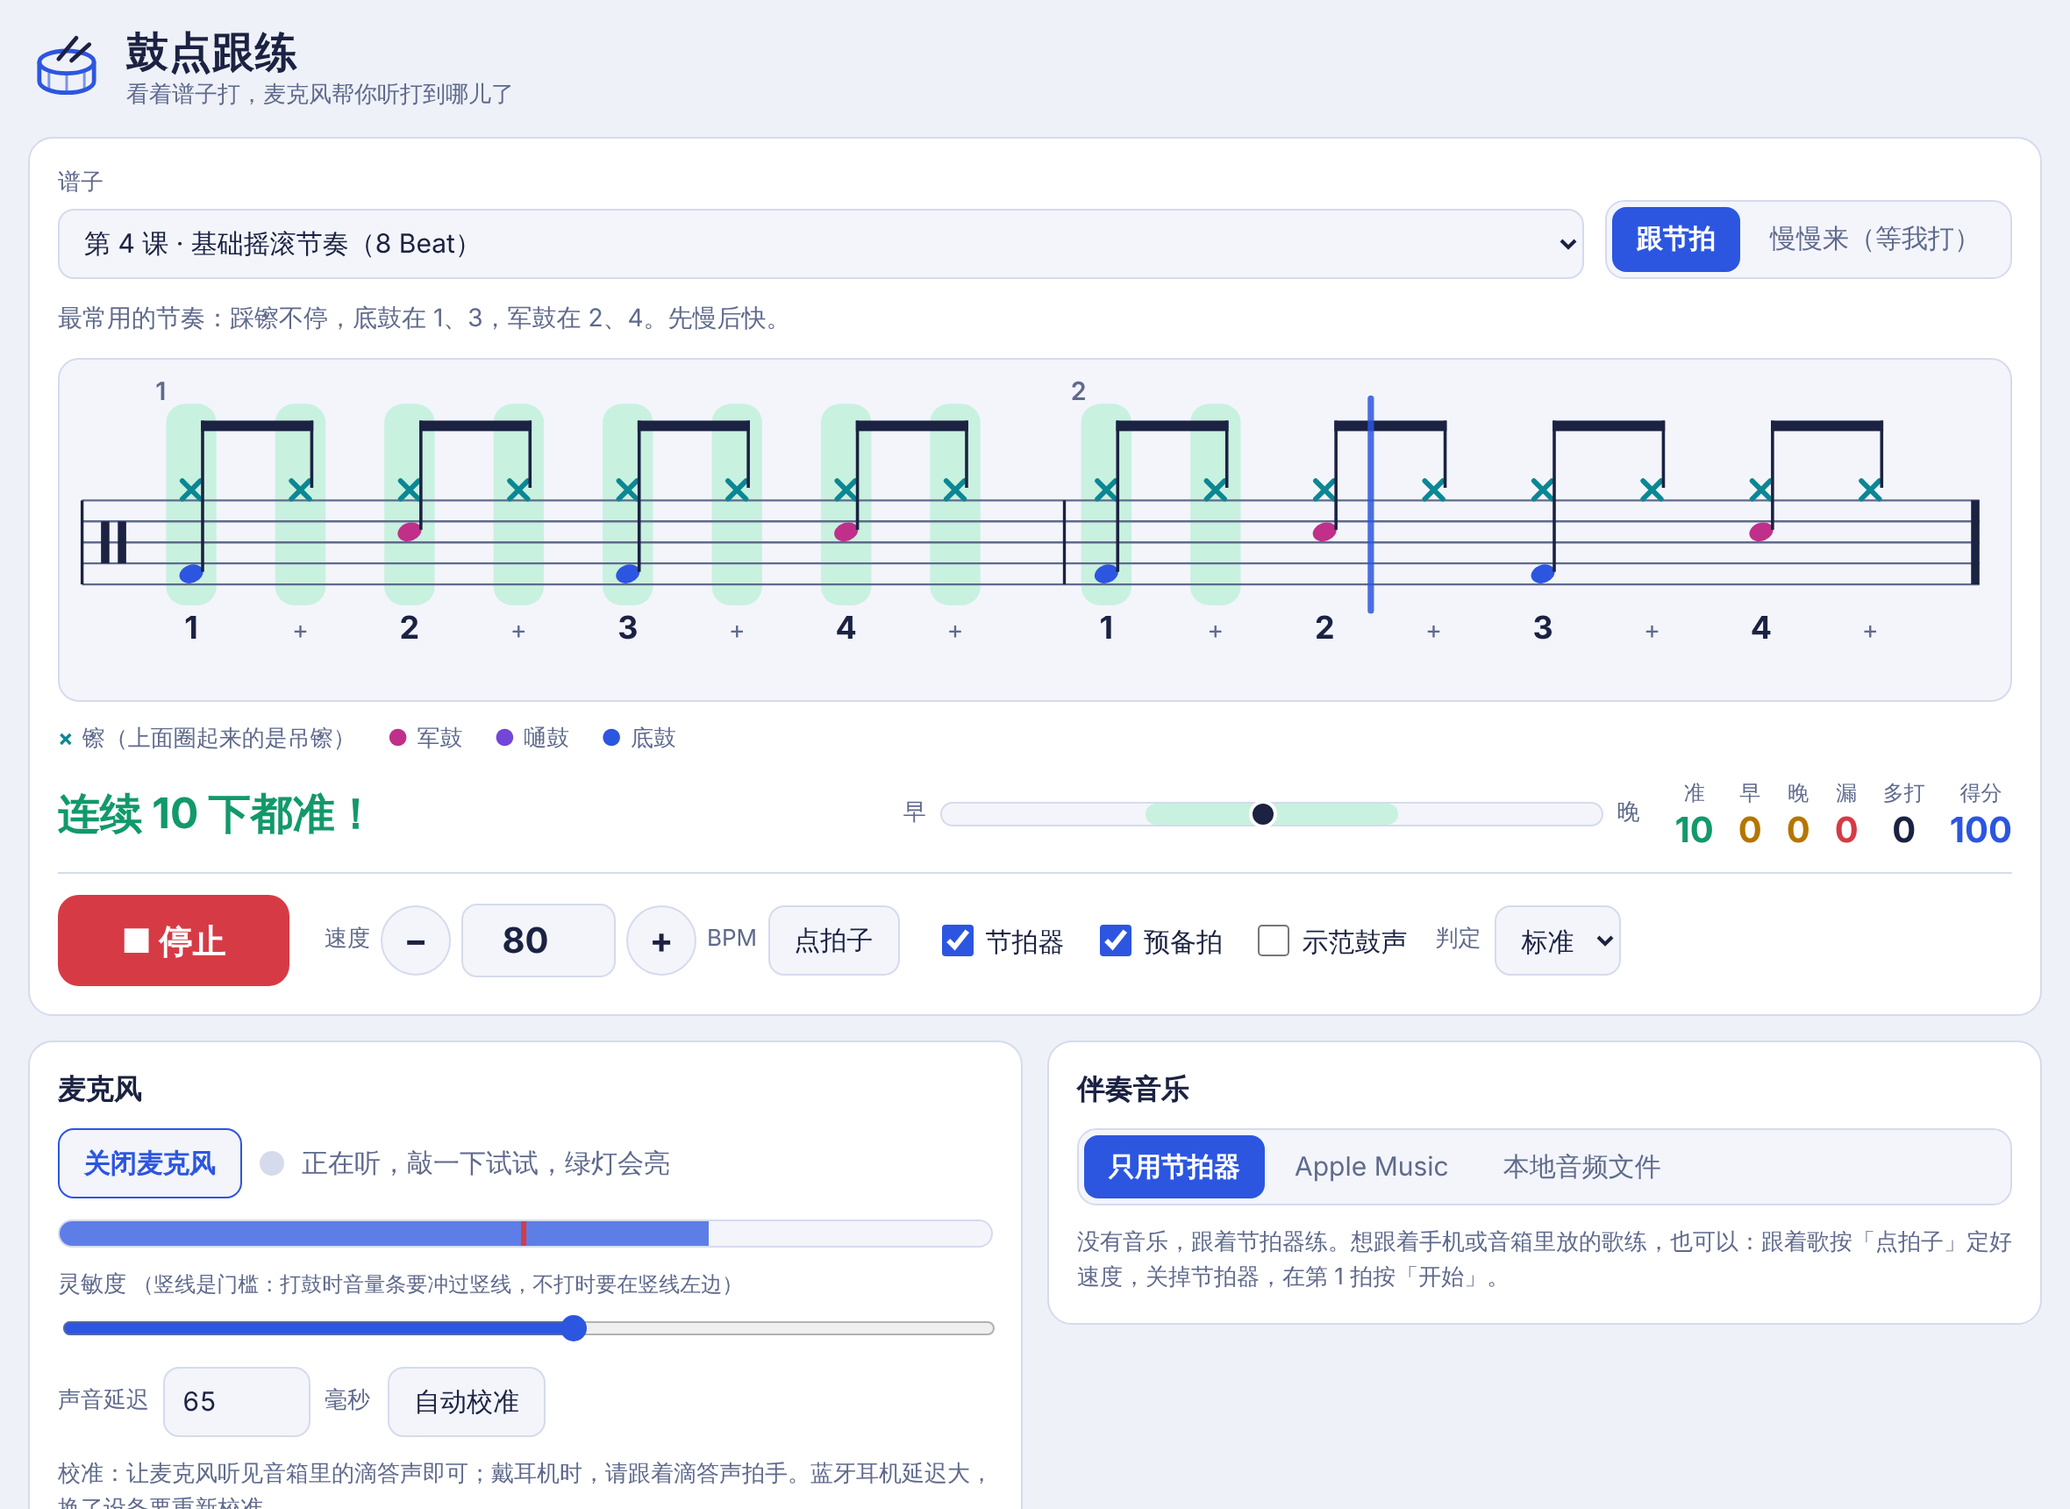
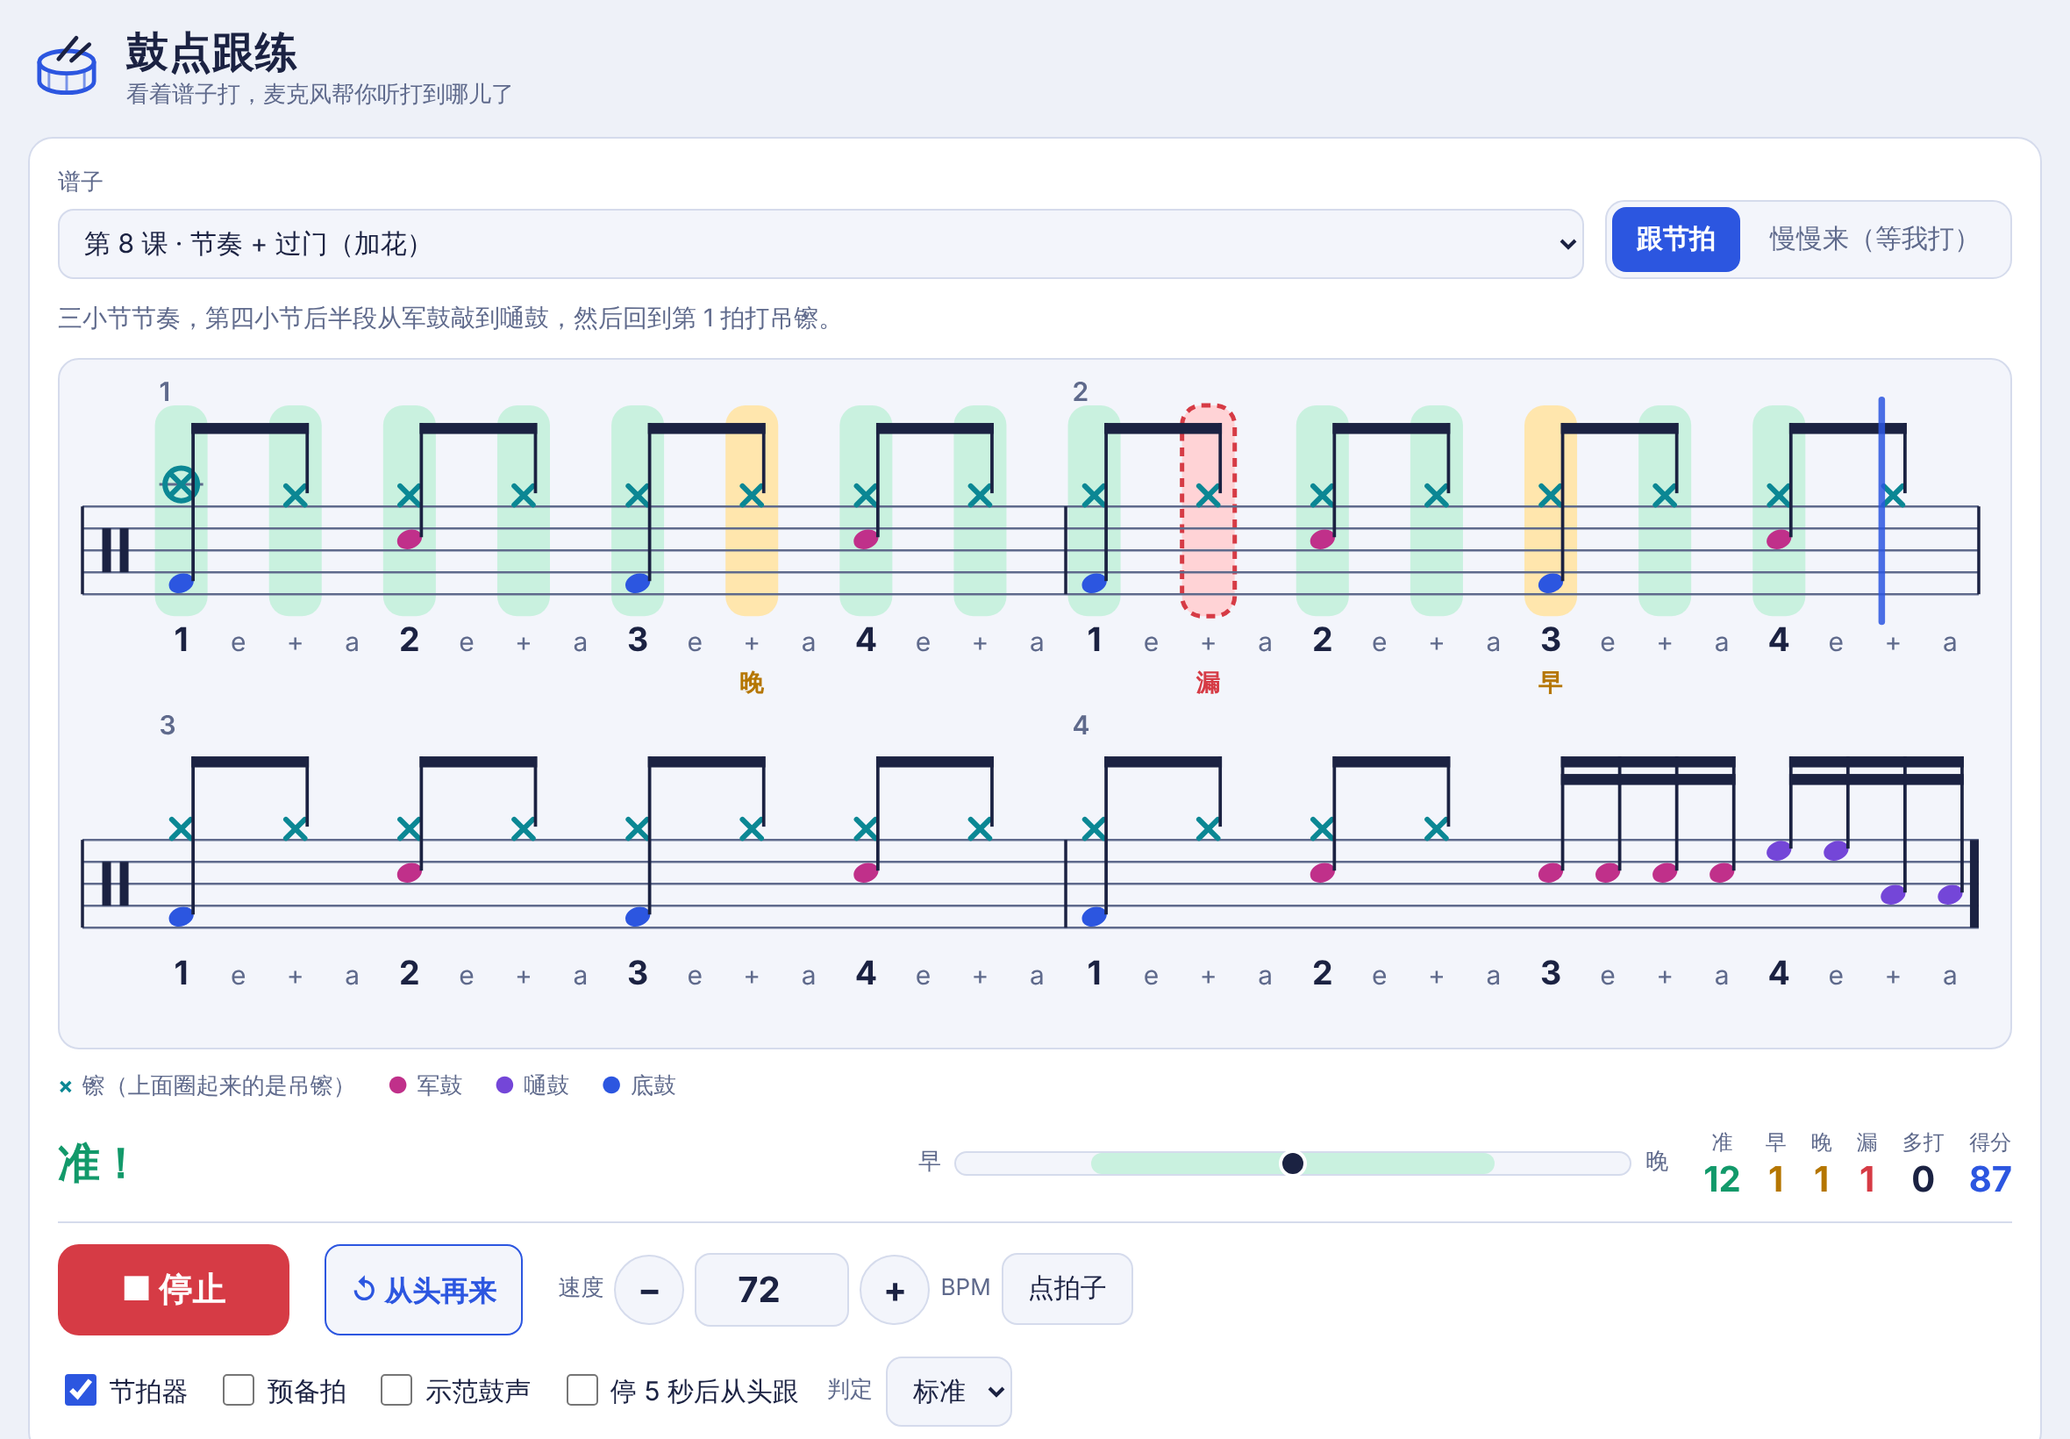
Rewrite the README for the current app and refresh the screenshot
Claude-Session: https://claude.ai/code/session_01LSP8dEpGgCuz3fZjoWSGaK

diff --git a/README.md b/README.md
@@ -1,95 +1,102 @@
 # 鼓点跟练
 
-给刚入门的小鼓手用的练习网页：屏幕上显示鼓谱，麦克风听他打鼓，实时标出打到哪里、打得准不准；可以跟节拍器练，也可以跟 Apple Music 里的歌或本地音频文件练。
+给刚入门的小鼓手用的练习网页：屏幕上显示鼓谱，麦克风听他打鼓，实时标出打到哪里、打得准不准。可以跟着教材伴奏的音频文件练，也可以只跟节拍器练。
 
-纯网页，没有任何依赖，不上传任何声音，所有设置只存在本机浏览器里。
+在线使用：<https://flyeversheep.github.io/drum-coach/>（iPad 用 Safari 打开；页面最底部显示当前版本号）
 
-## 怎么打开
+纯网页，没有任何依赖，没有服务器。麦克风的声音、谱子、伴奏文件和设置都只留在本机浏览器里，不会上传。
 
-浏览器只允许 `http://localhost` 或 `https://` 的页面使用麦克风和 Apple Music，所以**不能直接双击 index.html**。
-
-- **Mac**：双击 `start.command`（第一次可能要右键 → 打开）。
-- **Windows**：先装 [Python](https://www.python.org/downloads/)，再双击 `start.bat`。
-- **或者在终端里**：
-
-```bash
-cd drum-coach
-python3 -m http.server 8080
-```
-
-然后用 Chrome、Edge 或 Safari 打开 <http://localhost:8080>。
-
-**想在 iPad 上用**：iPad 不能访问电脑的 localhost，需要把整个文件夹放到任何支持 https 的静态网站空间（例如 GitHub Pages、Cloudflare Pages、Netlify），再用 iPad 的 Safari 打开那个网址。
+![练习界面](screenshot.png)
 
 ## 怎么用
 
-1. 在「谱子」里选一课（内置 9 个入门练习，从数拍子到带过门的节奏）。
-2. 选练习方式：
-   - **跟节拍**：蓝线按速度往前走，打得准的音变绿，早了/晚了变黄，漏了变红。结束后给出得分和「整体偏早/偏晚多少毫秒」。
-   - **慢慢来（等我打）**：没有速度要求，亮着的是下一个要打的音，打一下往前走一格，同时显示他现在的大致速度和稳不稳。最适合刚开始认谱的时候。
-3. 按「开始」（或空格键），第一次会请求麦克风权限。
-   - 勾上「停 5 秒后从头跟」（默认开）：打到一半停下超过 5 秒，谱子会回到第一个音等着，他重新打第一下就从头开始跟。跟节拍模式下只对节拍器有效，节拍器会按他重新开始的那一下对齐；跟歌练习时歌曲不会跟着倒回去。
-4. 「麦克风」面板里调**灵敏度**：打鼓时音量条要冲过红色竖线，不打时要留在竖线左边。
-5. 按一次**自动校准**（换耳机/音箱后重做）：它播 10 下滴答声来测量声音延迟。外放时什么都不用做；戴耳机时跟着滴答声拍手。
+1. **选谱子**。内置 9 个入门练习（从数拍子到带过门的节奏）；自己的曲目在「编辑谱子」里录入或导入，见下文。
+2. **选练习方式**：
+   - **跟节拍**：蓝线按速度往前走。打得准的音变绿，早了或晚了变黄，那个音附近完全没打才标成漏。结束后给出得分和「整体偏早/偏晚多少毫秒」。
+   - **慢慢来（等我打）**：没有速度要求，亮着的是下一个要打的音，打一下往前走一格，同时显示他现在的大致速度和稳不稳。适合刚开始认谱的时候。
+3. **按「开始」**（或空格键）。第一次会请求麦克风权限。
+4. **调灵敏度**。「麦克风」面板里，红色竖线是门槛：不打鼓时音量条要留在竖线左边。每听到一下，旁边的绿灯会闪。
+5. **校准一次声音延迟**。按「自动校准」，它会播 10 下滴答声。外放时什么都不用做；戴耳机时跟着滴答声拍手。换耳机或音箱后重做。
 
-谱子怎么看：`×` 是镲（带圈的是吊镲），红紫色圆点是军鼓，紫色是嗵鼓，最下面蓝色是底鼓；下面的 `1 e + a` 是数拍子的方法。
+谱子怎么看：`×` 是镲（带圈的是吊镲），圆点从上到下是高音嗵鼓、军鼓、落地嗵鼓、底鼓，颜色见页面上的图例；下面的 `1 e + a` 是数拍子的方法。
 
-谱子列表里的 Book 1 / Book 2 是孩子教材里的曲目，目前只有曲名，音符需要在「编辑谱子」里照着书点进去（只保存在本机浏览器，不会上传）。
+### 重新来一遍
 
-谱子可以在设备之间搬运：「编辑谱子」底部的「导出」会生成一个以 `#import=` 结尾的链接，在另一台设备上打开它（或粘贴到「导入」框里）就会把谱子存进那台设备。链接本身就是备份，浏览器数据被清掉后再打开一次即可恢复。
+- 点「开始」旁边的 **↺ 从头再来**，谱子立刻回到开头；跟伴奏练时音乐也一起倒回开头。
+- 勾着「停 5 秒后从头跟」（默认开）时，停下不打超过 5 秒，谱子自己回到第一个音等着，他再打第一下就重新开始。这一条在「慢慢来」和节拍器下有效；跟伴奏练时音乐不会自动倒回去，用上面的按钮。
 
-「编辑谱子」里可以点格子自己写谱（比如照着老师给的谱或某首歌的主节奏抄一遍），会自动保存。
+### 判定的宽严
 
-## 跟 Apple Music 的歌一起练
+「判定」有宽松、标准、严格三档。算「准」的范围分别是 ±100、±65、±40 毫秒；超出但离这个音最近的击打算早或晚，最远到 350、250、150 毫秒。
 
-Apple Music 的歌有版权保护，网页只能通过 Apple 官方的 MusicKit 播放，这需要两样东西：
+## 跟伴奏一起练
 
-1. **Apple Music 订阅**（登录后播整首歌；不登录只能播 30 秒试听）。
-2. **开发者令牌（Developer Token）**：需要加入 Apple Developer Program（付费，每年 99 美元）。步骤大致是：
-   1. 登录 <https://developer.apple.com/account>，在 Membership 里记下 **Team ID**。
-   2. 进入 Certificates, Identifiers & Profiles → Identifiers，新建一个 **Media ID**（勾选 MusicKit）。
-   3. 进入 Keys，新建一个勾选 **Media Services (MusicKit)** 的密钥并关联上一步的 Media ID，下载 `AuthKey_XXXXXXXXXX.p8`（只能下载一次），记下 **Key ID**。
-   4. 在电脑上生成令牌（需要 [Node.js](https://nodejs.org)）：
+「伴奏音乐」里选 **本地音频文件**（默认），点「添加伴奏文件」，可以一次选多个 mp3 / m4a / wav。
 
-```bash
-node tools/make-token.mjs --team 你的TeamID --key 你的KeyID --p8 AuthKey_XXXXXXXXXX.p8
-```
+- **自动归类**：文件名里带曲名的会配到对应曲目并记住，以后选曲目就自动载入。每首曲子可以存三个版本，按文件名区分：
+  - 带 `Demo` → 示范（带鼓）
+  - 带 `with click` → 伴奏 + 滴答声
+  - 带 `without click` → 伴奏（无滴答声）
+- **自动对拍**：载入时程序按曲目的速度找到录音里的节拍，并按「两小节预备拍」算出第 1 小节从第几秒开始。没有滴答声的伴奏没法这样听出来，会借用同一首曲子示范版的结果，所以它要和示范版一起添加。
+- **预备拍**：预备拍期间屏幕显示「预备… 1 2 3 4」，不判定。
+- **核对和微调**：勾上「节拍器」，听滴答声和音乐是否重合；不重合就用「第 1 拍在」旁边的 − / + 调（每次 20 毫秒），或者播放时从某小节第 1 拍开始按「点拍子」8 下。调好的结果按文件记住。
+- **放慢**：「播放速度」可以降到 50%，不变调。
 
-   5. 把输出的一长串粘贴到网页「伴奏音乐 → Apple Music → 开发者令牌」，点「连接 Apple Music」，再点「登录 Apple Music」。
+音频文件需要自己准备。教材的配套录音受版权保护，本仓库不提供，也请不要把它们提交到公开仓库。
 
-令牌最长 6 个月有效，过期后重新运行上面的命令。`.p8` 文件和令牌相当于密码，不要发给别人；如果把网页放到公开网址上，令牌是粘贴在浏览器里的，不会随网页一起公开。
+给孩子打分时，用不带鼓的伴奏，或者让他戴耳机听：外放带鼓的示范版时，录音里的鼓声也会被麦克风当成他打的。
 
-**没有开发者账号的办法：**
+### 只用节拍器
 
-- **本地音频文件**：选「本地音频文件」，添加伴奏的 mp3 / m4a / wav（可一次选多个）。文件名里带曲名的会自动配到对应曲目，文件保存在本机浏览器里，以后选曲目就会自动载入。载入时程序会按曲目的速度和两小节预备拍自动找到第 1 小节的位置。从 Apple Music 订阅下载的歌有保护，不能这样用。
-- **别的 App 放歌**：在「伴奏音乐」里选「别的 App 放歌」，页面全程不出声。把「歌曲速度」设成书上的速度，按「开始」，再去「音乐」App（或另一台设备）放歌；他打第一下时谱子开始按这个速度走。停 5 秒或点「从头再来」，谱子回到开头等下一次。没有自动对齐音乐，靠的是他第一下的位置和设定的速度。
+「伴奏音乐」里选「只用节拍器」，用「速度」设 BPM，可以开预备拍和示范鼓声（程序合成的鼓声，按谱子演奏）。
 
-### 让谱子和歌对上拍子
+## 自己的谱子
 
-程序不知道一首歌的速度和第 1 拍在哪里，每首新歌要对一次（之后会记住）：
+- **录入**：打开「编辑谱子」，点格子加减音符，自动保存。改内置练习会自动另存一份。每份最多 64 小节。
+- **导出和导入**：「编辑谱子」底部的「导出」会生成一个以 `#import=` 结尾的链接，谱子的全部内容都在链接里。在另一台设备上打开它，或粘贴到「导入」框，谱子就存进那台设备。链接本身就是备份。导入会覆盖同一首曲目现有的内容。
+- **只存在本机**：谱子保存在浏览器里。注意 iPad 上 Safari、「添加到主屏幕」的图标、其他 App 里弹出的内置浏览器，三者的数据互不相通，在哪里用就在哪里导入。
 
-1. 选好歌，按「开始」放起来。
-2. 从某一小节的第 1 拍开始，跟着音乐按「点拍子」8 下。程序会算出歌曲速度（BPM）和第 1 拍的位置。
-3. 勾上「节拍器」，听滴答声和音乐是否重合；不重合就用「第 1 拍在」旁边的 − / + 微调（每次 20 毫秒），或者直接填入查到的准确 BPM。
-4. 谱子会在整首歌里循环，所以适合练一首歌的主节奏。
+谱子列表里的 Book 1 是九个只有曲名的空位（ABRSM Drum Kit Exam Pieces from 2024, Initial Grade），音符需要照着自己的书录入。有版权的曲谱请不要放进公开仓库或公开分享。
 
 ## 需要知道的限制
 
-- 麦克风只能判断**什么时候打了一下**，分不出打的是军鼓、底鼓还是镲。所以「准」的意思是节奏对，不保证鼓件对。
-- 音乐或节拍器**外放**时，声音也会进麦克风，可能被当成鼓声。最好让孩子戴耳机听音乐；外放的话把音量调小、灵敏度调低，让只有鼓声能冲过竖线。
-- 蓝牙耳机延迟很大（常见 150–300 毫秒），一定要校准；有线耳机最省心。
-- 只支持 4/4 拍、最细到十六分音符；跟歌练习时假设整首歌速度不变。
-- iPhone / iPad 上打开麦克风后，系统可能把声音切到听筒或降低音质，这是 iOS 的行为，接耳机可以避免。
+- **只听节奏，不分鼓件**。麦克风能判断什么时候打了一下，分不出打的是军鼓、底鼓还是镲。「准」的意思是节奏对。
+- **外放的声音会进麦克风**。音乐或节拍器外放时可能被当成击打，戴耳机最稳；有线耳机最省心，蓝牙耳机延迟大，一定要校准。
+- **很轻的音可能听不到**。检测看的是声音有没有突然变响，分低、中、高三个频段，余音没散时也能认出新的一下；比门槛轻的声音只在谱子上正好有音符的位置才算数。但被很响的余音完全盖住的轻踩镲仍然可能漏。
+- **iPad 上不能和别的 App 同时放歌**。网页一用麦克风，系统就会暂停「音乐」等其他 App，所以伴奏要导入到页面里播。
+- **只支持 4/4 拍**，最细到十六分音符，没有三连音、开镲、装饰音和力度记号；跟伴奏练时假设整首速度不变。
 
-## 文件
+## 在自己电脑上运行
+
+浏览器只允许 `https://` 或 `http://localhost` 的页面使用麦克风，所以不能直接双击 `index.html`。
+
+- **Mac**：双击 `start.command`（第一次可能要右键 → 打开）。
+- **Windows**：先装 [Python](https://www.python.org/downloads/)，再双击 `start.bat`。
+- **终端**：
+
+```bash
+python3 -m http.server 8080
+```
+
+然后打开 <http://localhost:8080>。
+
+想放到自己的网址上：这是一个纯静态网站，把整个文件夹放到任何支持 https 的静态空间即可。本仓库用的是 GitHub Pages，从 `main` 分支根目录发布。
+
+## 改代码
 
 ```
 index.html        页面
 style.css         样式
-js/scores.js      内置课程和谱子数据
-js/notation.js    鼓谱绘制
+js/scores.js      内置练习、曲目空位、谱子的导入导出编码
+js/notation.js    鼓谱绘制、蓝线和标记
 js/audio.js       节拍器、示范鼓声、麦克风击打检测
-js/music.js       本地音频和 Apple Music（MusicKit JS v3）
+js/music.js       本地音频播放、伴奏文件存储、自动对拍、Apple Music
 js/app.js         练习逻辑和界面
-tools/make-token.mjs  生成 Apple 开发者令牌
+tools/make-token.mjs  生成 Apple Music 开发者令牌
 ```
+
+- **版本号**：每次改动文件，把 `index.html` 里所有 `?v=数字` 和页脚的「版本 数字」一起加一，这样设备不会把缓存的旧脚本和新页面混用。
+- **隐藏着的功能**，代码都在，只是没有入口：
+  - **Book 2 的曲目空位**：从 `js/scores.js` 的 `DC.HIDDEN_BOOKS` 里去掉 `'Book 2'` 即可显示。
+  - **别的 App 放歌**（页面不出声，按第一下击打和设定速度走谱）和 **Apple Music**（通过 MusicKit 在页面里播放，需要 Apple 开发者令牌，未经实际播放验证）：在 `index.html` 的 `#srcSeg` 里加回 `data-src="ext"` / `data-src="apple"` 的按钮，并放宽 `js/app.js` 开头把来源限制为 `file` / `metro` 的那一行。
+- **曲目顺序**：导入链接按位置引用 `DC.PIECES` 里的曲目，新曲目只能加在末尾。
